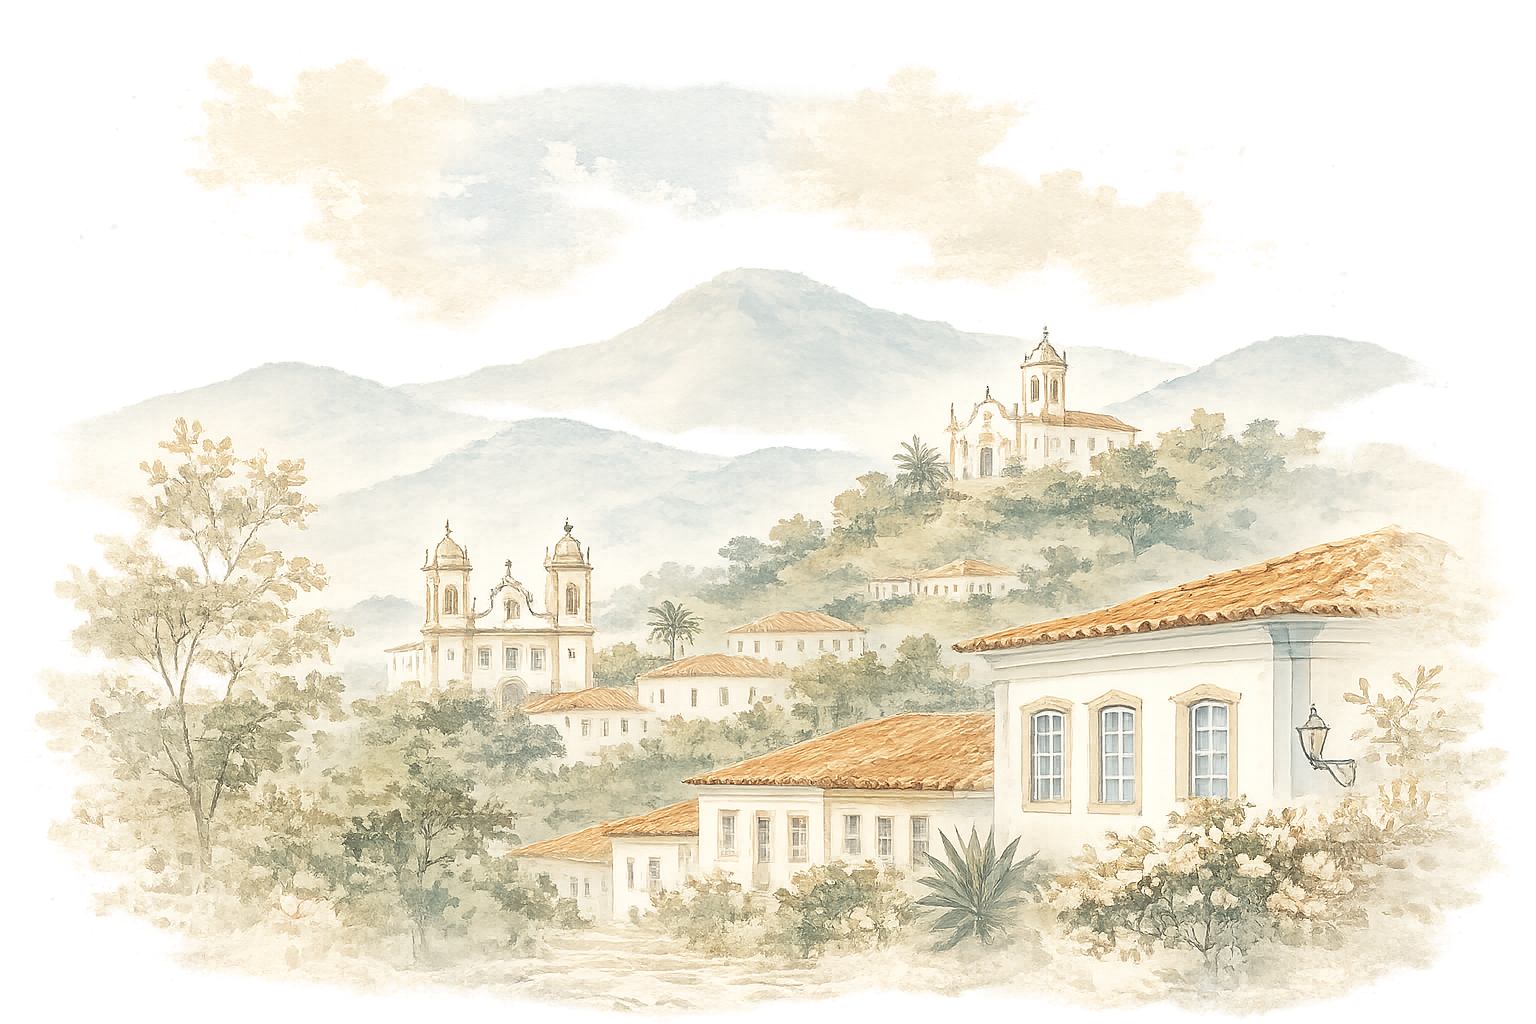
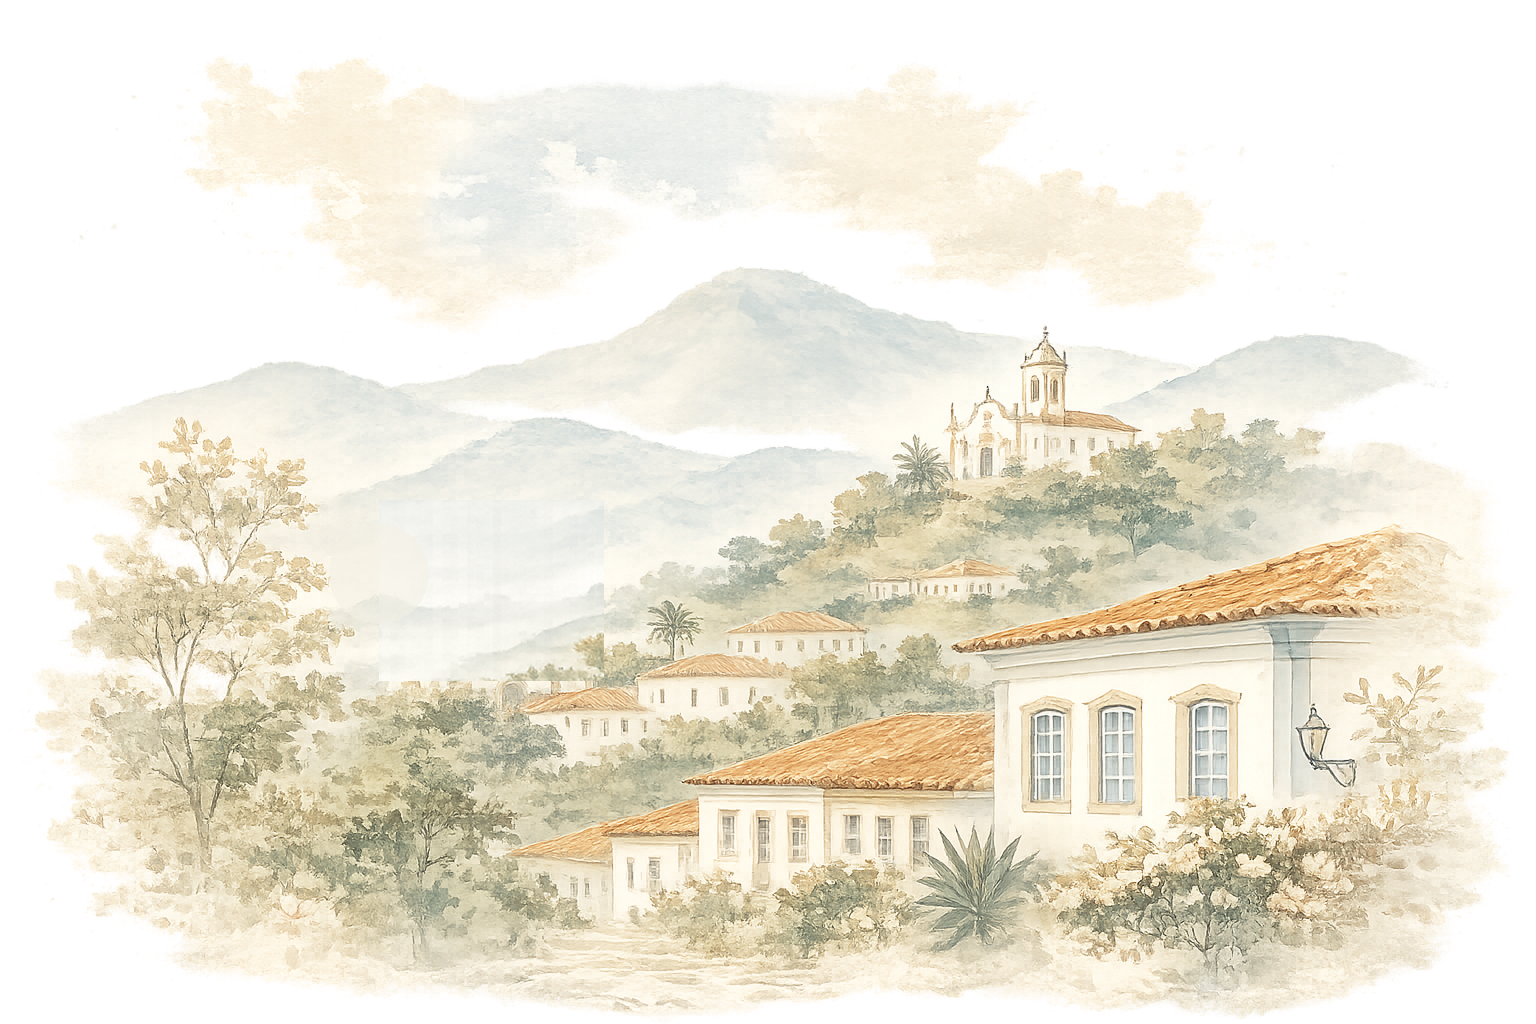
alterações

Changed region(s): [[0.25, 0.5, 0.4062, 0.6875]]

diff --git a/index.html b/index.html
@@ -480,7 +480,9 @@
           <p class="event-kicker">24 de outubro de 2026</p>
           <h3 class="event-name">Wedding</h3>
           <p class="event-detail narrow" style="margin-inline:auto;">
-            A cerimônia e a recepção acontecerão na<b> Pousada Brisa da Serra</b>, em Tiradentes — MG, com início às <b>15h</b>.
+            A cerimônia e a recepção acontecerão na<b> Pousada Brisa da Serra</b>, 
+            <br>em Tiradentes — MG
+            <br> com início às <b>15h</b>.
           </p>
           <div class="btn-row">
             <a class="btn" href="https://www.google.com/maps/search/?api=1&query=Pousada+Brisa+da+Serra+Tiradentes+MG" target="_blank" rel="noopener">
@@ -493,9 +495,9 @@
             <p>
               O traje sugerido é <b>passeio completo</b>.
               <br><br>
-              Homens: Terno ou costume, com ou sem gravata, em tons elegantes.
+              Homens: Terno ou costume.
               <br>
-              Mulheres: Vestidos longos ou midi, em tecidos mais sofisticados.
+              Mulheres: Vestidos longos ou midi.
               <br><br>
               Como a celebração acontecerá em um ambiente externo, sugerimos optar por calçados confortáveis para melhor aproveitarem a ocasião.
             </p>